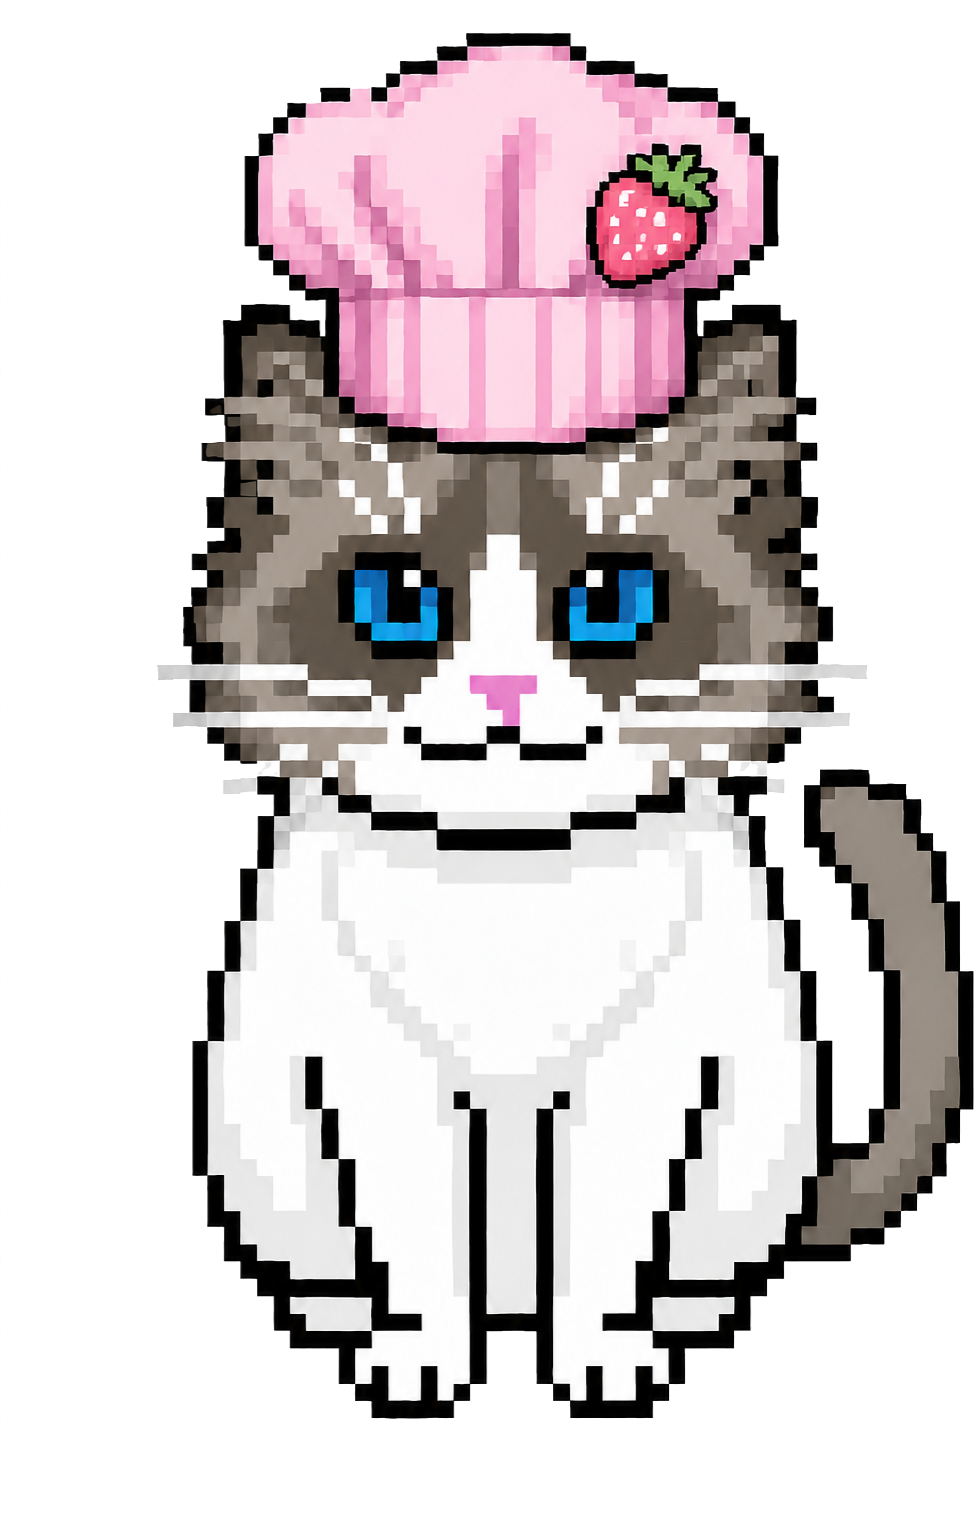
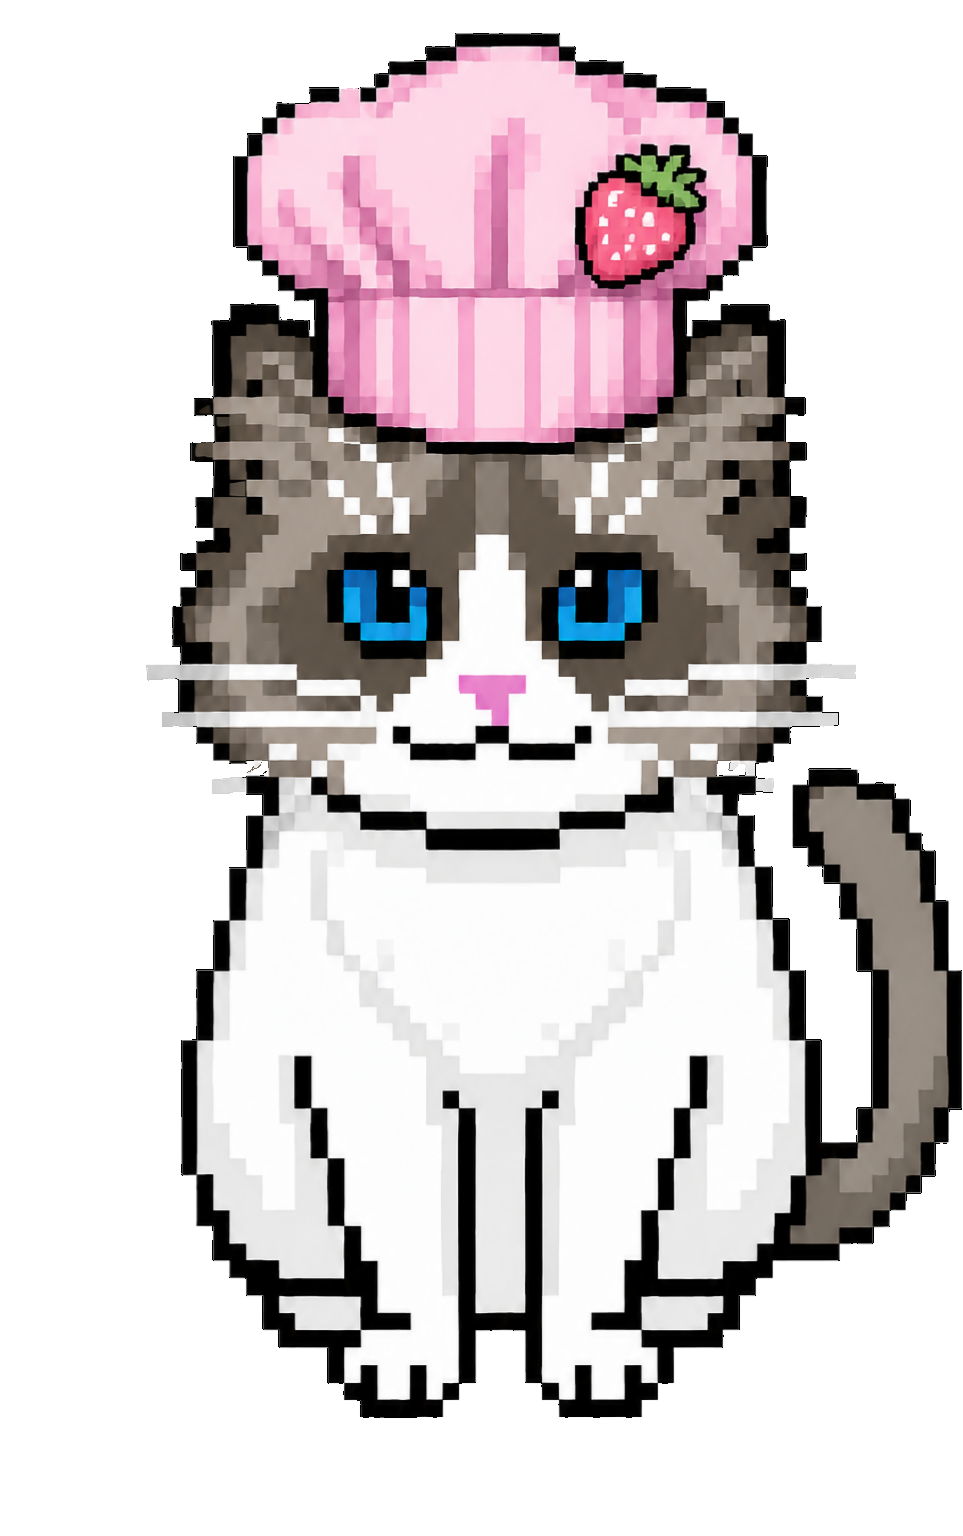
Bakery: refresh ErenCakeShop sprite + measurement-based eye coords + halo clean
Same recipe as the bathroom + chemistry fixes:

1) New ErenCakeShop.png (pink baker hat with strawberry) copied from
   Downloads to public/. PNG ran through the two-pass halo cleaner:
   - pass 1 (lum >= 140): 2543 bright fringe pixels darkened
   - pass 2 (lum >= 105): 1063 mid-gray ring pixels darkened
   Only edge pixels with at least one fully-transparent neighbour are
   touched, so the strawberry, fur, whiskers and paws stay intact.

2) Eye coords came from a parallel pixel-scan of the 963x1536 sprite,
   then translated to the 360x360 container the bakery renders at
   (portrait sprite height-fits so the image only occupies the middle
   ~62.7% of container width). New CAKE_EYES:
     lidTop/maskTop   37.08% (was 37 / 36.9)
     lidLeftA/maskA   41.01% (was 40.3 / 41)
     lidLeftB/maskB   54.98% (was 54.8 / 55.5)
     lidWidth/maskW   5.43%  (was using defaults that were too wide)
     maskH            4.62%  (was using default that was too tall)
   Catchlights on this sprite are MIRRORED, not same-position-symmetric:
     eye A catchlight ~ 68.7% x 10.6% within iris -> upper-right quadrant
     eye B catchlight ~ 29.5% x 11% within iris  -> upper-left quadrant
   Previous coords had both glints at (24%, 15%) which put eye A's glint
   on the wrong side of the iris. Per-eye glintLeft/Top now split:
     glintLeftA 59.7% / glintTopA 1.6%
     glintLeftB 20.5% / glintTopB 2%
     glintW 18% (was using default 39% which spilled past the iris)
[…]

diff --git a/src/app/(app)/bakery/page.tsx b/src/app/(app)/bakery/page.tsx
@@ -31,21 +31,30 @@ interface PurchaseFx {
   startedAt: number
 }
 
-// ErenCakeShop.png pose: pink baker hat. Eye coords measured to this sprite so
-// the blink + glint land on his eyes; the glint sits upper-left of each eye for
-// a consistent catchlight. He's clipped at the counter line (see EREN block),
-// so only his head + chest show above the counter.
+// ErenCakeShop.png pose: pink baker hat with strawberry. Coords from a
+// pixel-scan of the 963×1536 sprite, translated to the 360×360 container
+// the bakery renders at (portrait sprite height-fits so the image
+// occupies the middle ~62.7% of container width).
+// Catchlights on this sprite are MIRRORED (not same-position symmetric):
+//   eye A (cat's right, viewer's left) — upper-RIGHT of its iris
+//   eye B (cat's left, viewer's right) — upper-LEFT of its iris
+// He's clipped at the counter line (see EREN block) so only his head +
+// chest show above the counter.
 const CAKE_EYES = {
-  lidTop:     '37%',
-  lidLeftA:   '40.3%',
-  lidLeftB:   '54.8%',
-  maskTop:    '36.9%',
-  maskLeftA:  '41%',
-  maskLeftB:  '55.5%',
-  glintLeftA: '24%',
-  glintLeftB: '24%',
-  glintTopA:  '15%',
-  glintTopB:  '15%',
+  lidTop:     '37.08%',
+  lidWidth:   '5.43%',
+  lidLeftA:   '41.01%',
+  lidLeftB:   '54.98%',
+  maskTop:    '37.08%',
+  maskLeftA:  '41.01%',
+  maskLeftB:  '54.98%',
+  maskW:      '5.43%',
+  maskH:      '4.62%',
+  glintLeftA: '59.7%',
+  glintTopA:  '1.6%',
+  glintLeftB: '20.5%',
+  glintTopB:  '2%',
+  glintW:     '18%',
 }
 // The wooden counter top sits at ~63.5% down the picture — Eren is clipped here.
 const COUNTER_PCT = 63.5

diff --git a/public/sw.js b/public/sw.js
@@ -2,7 +2,7 @@
 // Bump this string whenever you change badge/icon assets so the browser is
 // guaranteed to detect a byte difference and replace any old SW running on
 // the user's installed PWA. Pairs with no-store headers on /sw.js.
-const SW_VERSION = 'v16-bathroom-halo-clean-2026-06-07'
+const SW_VERSION = 'v17-cakeshop-redraw-2026-06-07'
 
 // Room backgrounds + Eren sprite. We precache these on install so the user
 // can scroll between rooms with no internet without seeing the room render
@@ -11,7 +11,7 @@ const SW_VERSION = 'v16-bathroom-halo-clean-2026-06-07'
 // 404s and you see Eren floating in space).
 const IMAGE_CACHE = `eren-images-${SW_VERSION}`
 const PRECACHE_IMAGES = [
-  '/erenGood.png',   '/erenSleep.png',  '/ErenCook.png',  '/ErenBathroomHat.png',
+  '/erenGood.png',   '/erenSleep.png',  '/ErenCook.png',  '/ErenBathroomHat.png',  '/ErenCakeShop.png',
   '/livingRoom.png', '/HomePage.png',
   '/kitchen.png',    '/KitchenDark.png',
   '/playroom.png',   '/play.png',